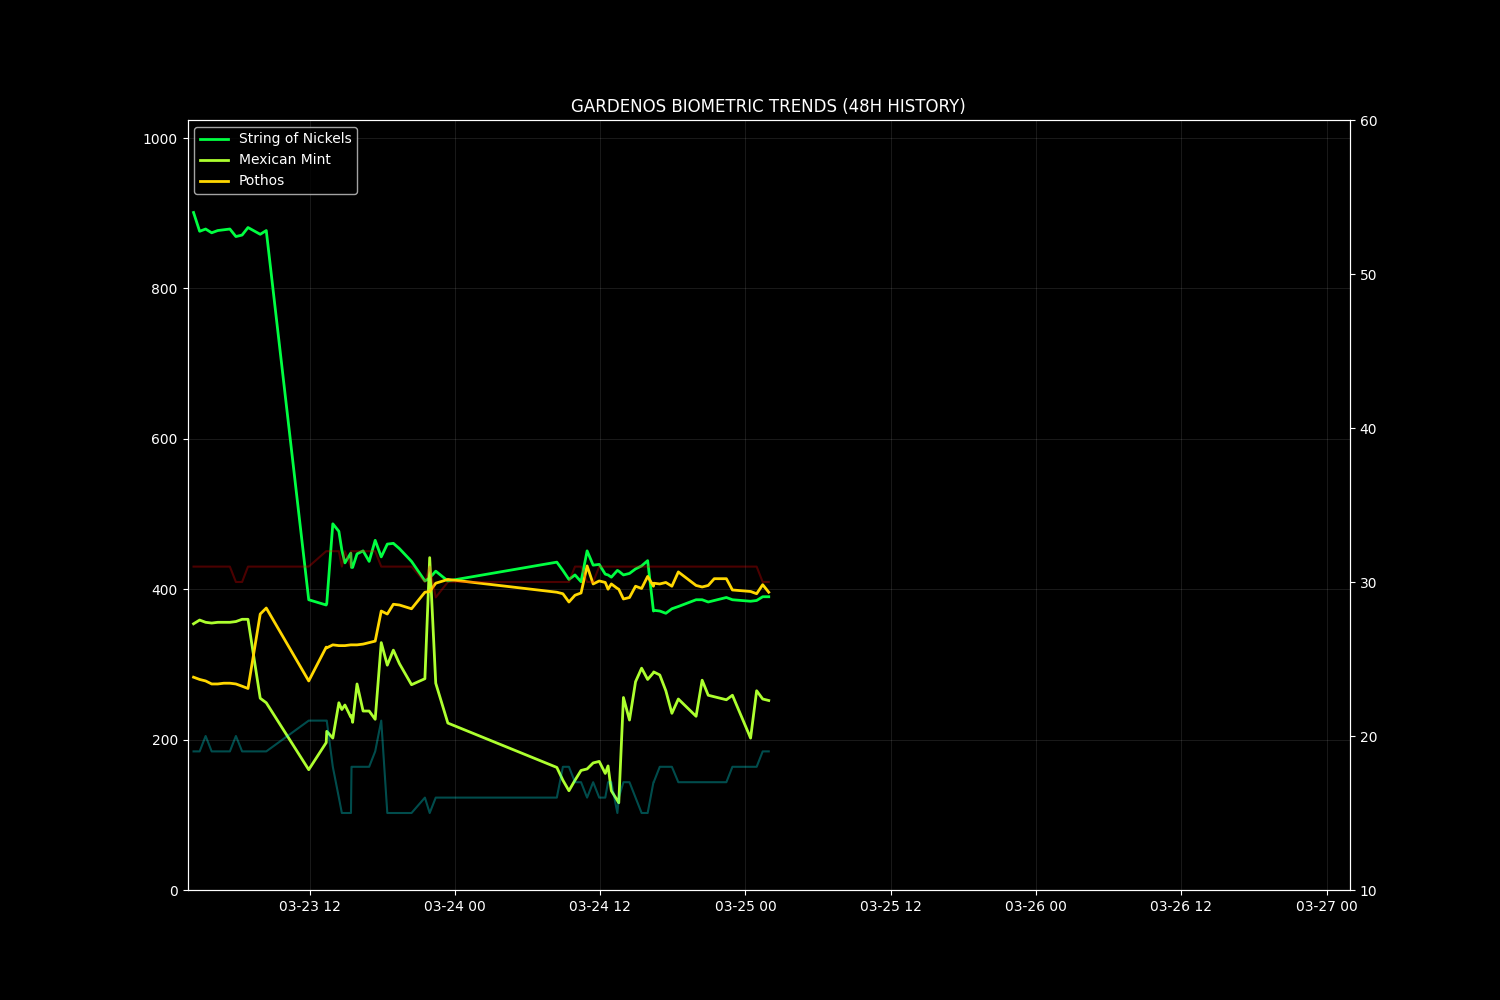
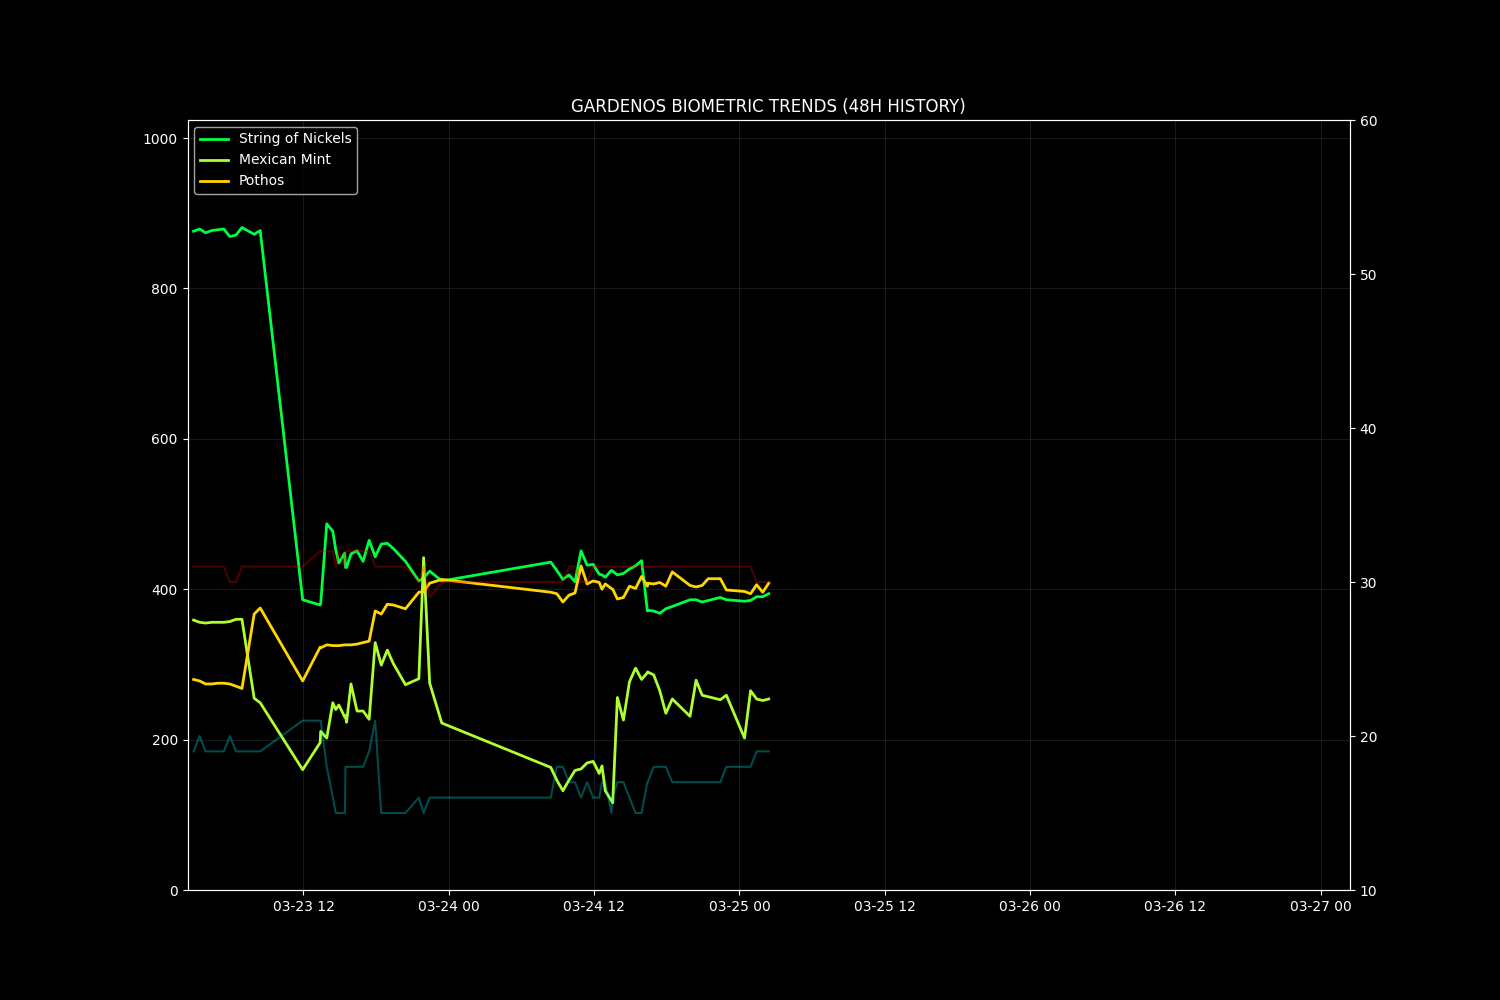
Warden Cycle: 2026-03-25 02:25:29

diff --git a/docs/data/observer_context.md b/docs/data/observer_context.md
@@ -1,21 +1,21 @@
 # 📝 Garden Observer Context
-**Generated:** 2026-03-25 00:58:01
+**Generated:** 2026-03-25 01:58:01
 
 ## 1. 🌡 Recent Telemetry (Last 12 Readings)
 ```csv
 timestamp,temp,hum,light,p1,p2,p3
-2026-03-24 22:55:28,31.0,18.0,843,386.0,259.0,399.0
-2026-03-25 00:25:28,31.0,18.0,895,384.0,202.0,397.0
 2026-03-25 00:55:28,31.0,18.0,895,385.0,265.0,394.0
+2026-03-25 01:25:28,30.0,19.0,896,390.0,254.0,406.0
+2026-03-25 01:55:28,30.0,19.0,895,390.0,252.0,396.0
 
 ```
 
 ## 2. 📊 Computed Metrics (Last 12 Calculations)
 ```csv
 timestamp,vpd,p1_pct,p1_slope,p2_pct,p2_slope,p3_pct,p3_slope,p4_pct,p4_slope,p5_pct,p5_slope,p6_pct,p6_slope,p1_is_dry,p2_is_dry,p3_is_dry
-2026-03-24 22:55:28,3.684,100.0,,76.8,,78.3,,,,,,,,False,False,False
-2026-03-25 00:25:28,3.684,100.0,,100.0,,78.9,,,,,,,,False,False,False
 2026-03-25 00:55:28,3.684,100.0,,74.2,,79.8,,,,,,,,False,False,False
+2026-03-25 01:25:28,3.437,100.0,,79.0,,76.4,,,,,,,,False,False,False
+2026-03-25 01:55:28,3.437,100.0,,79.8,,79.2,,,,,,,,False,False,False
 
 ```
 
